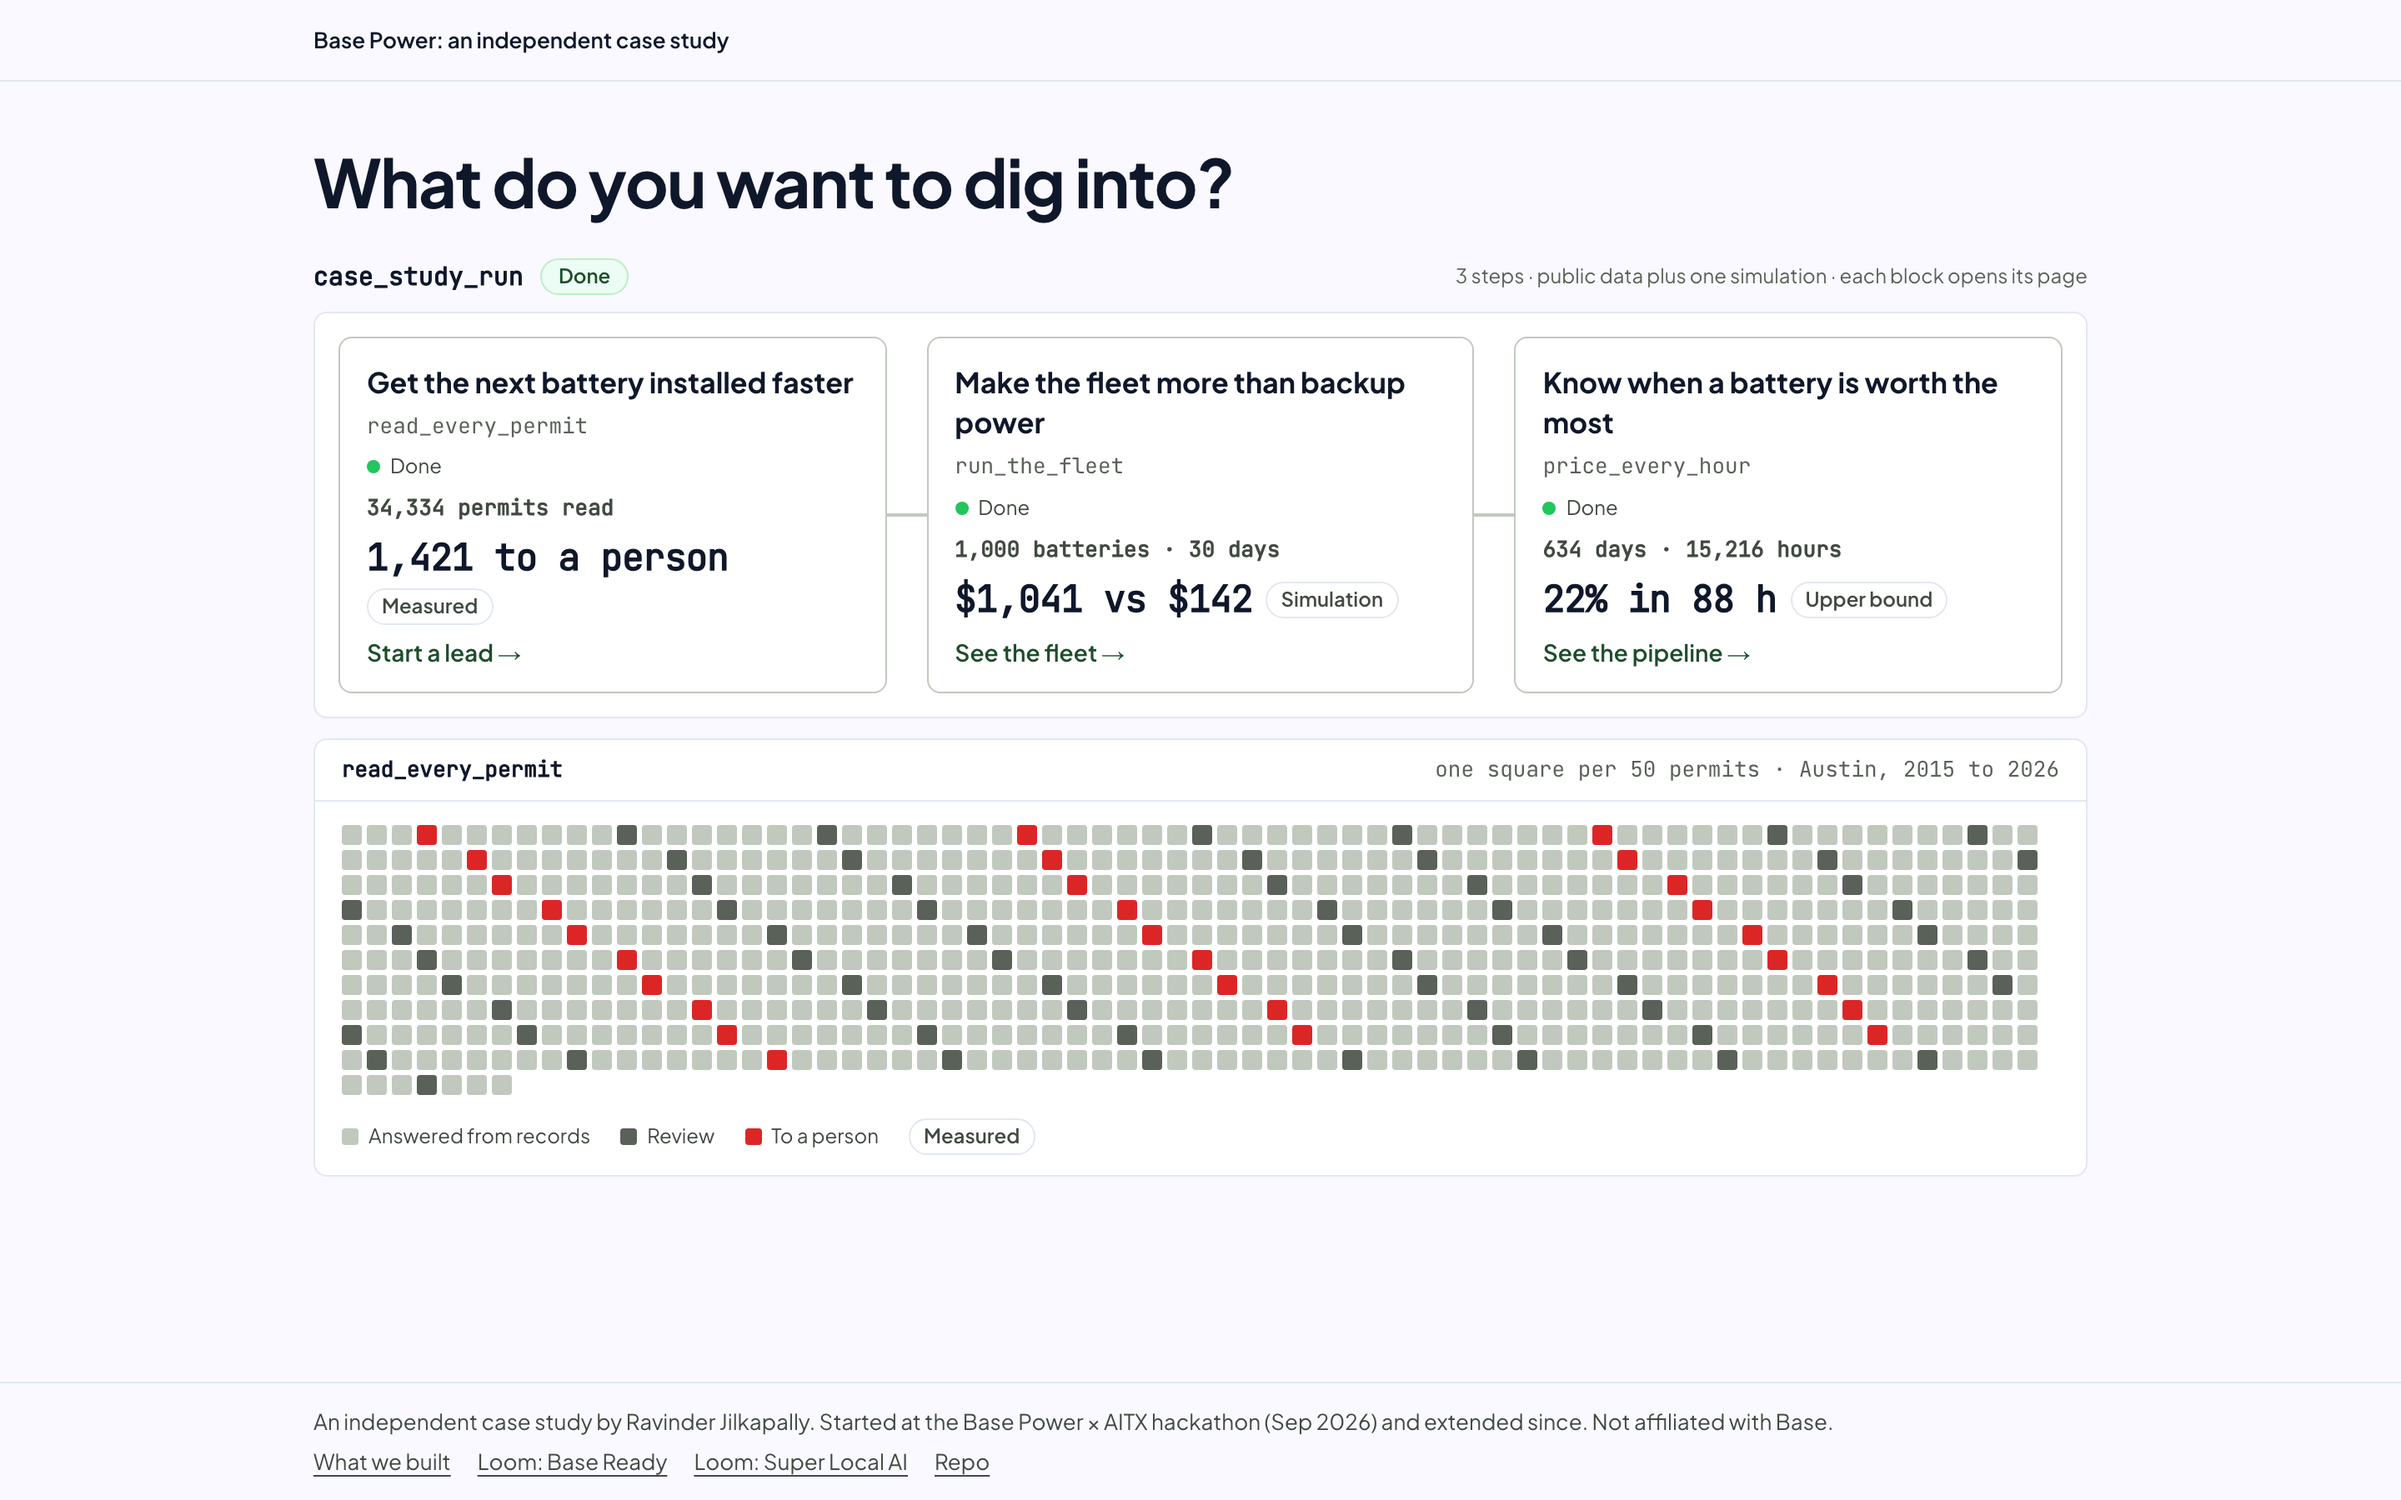
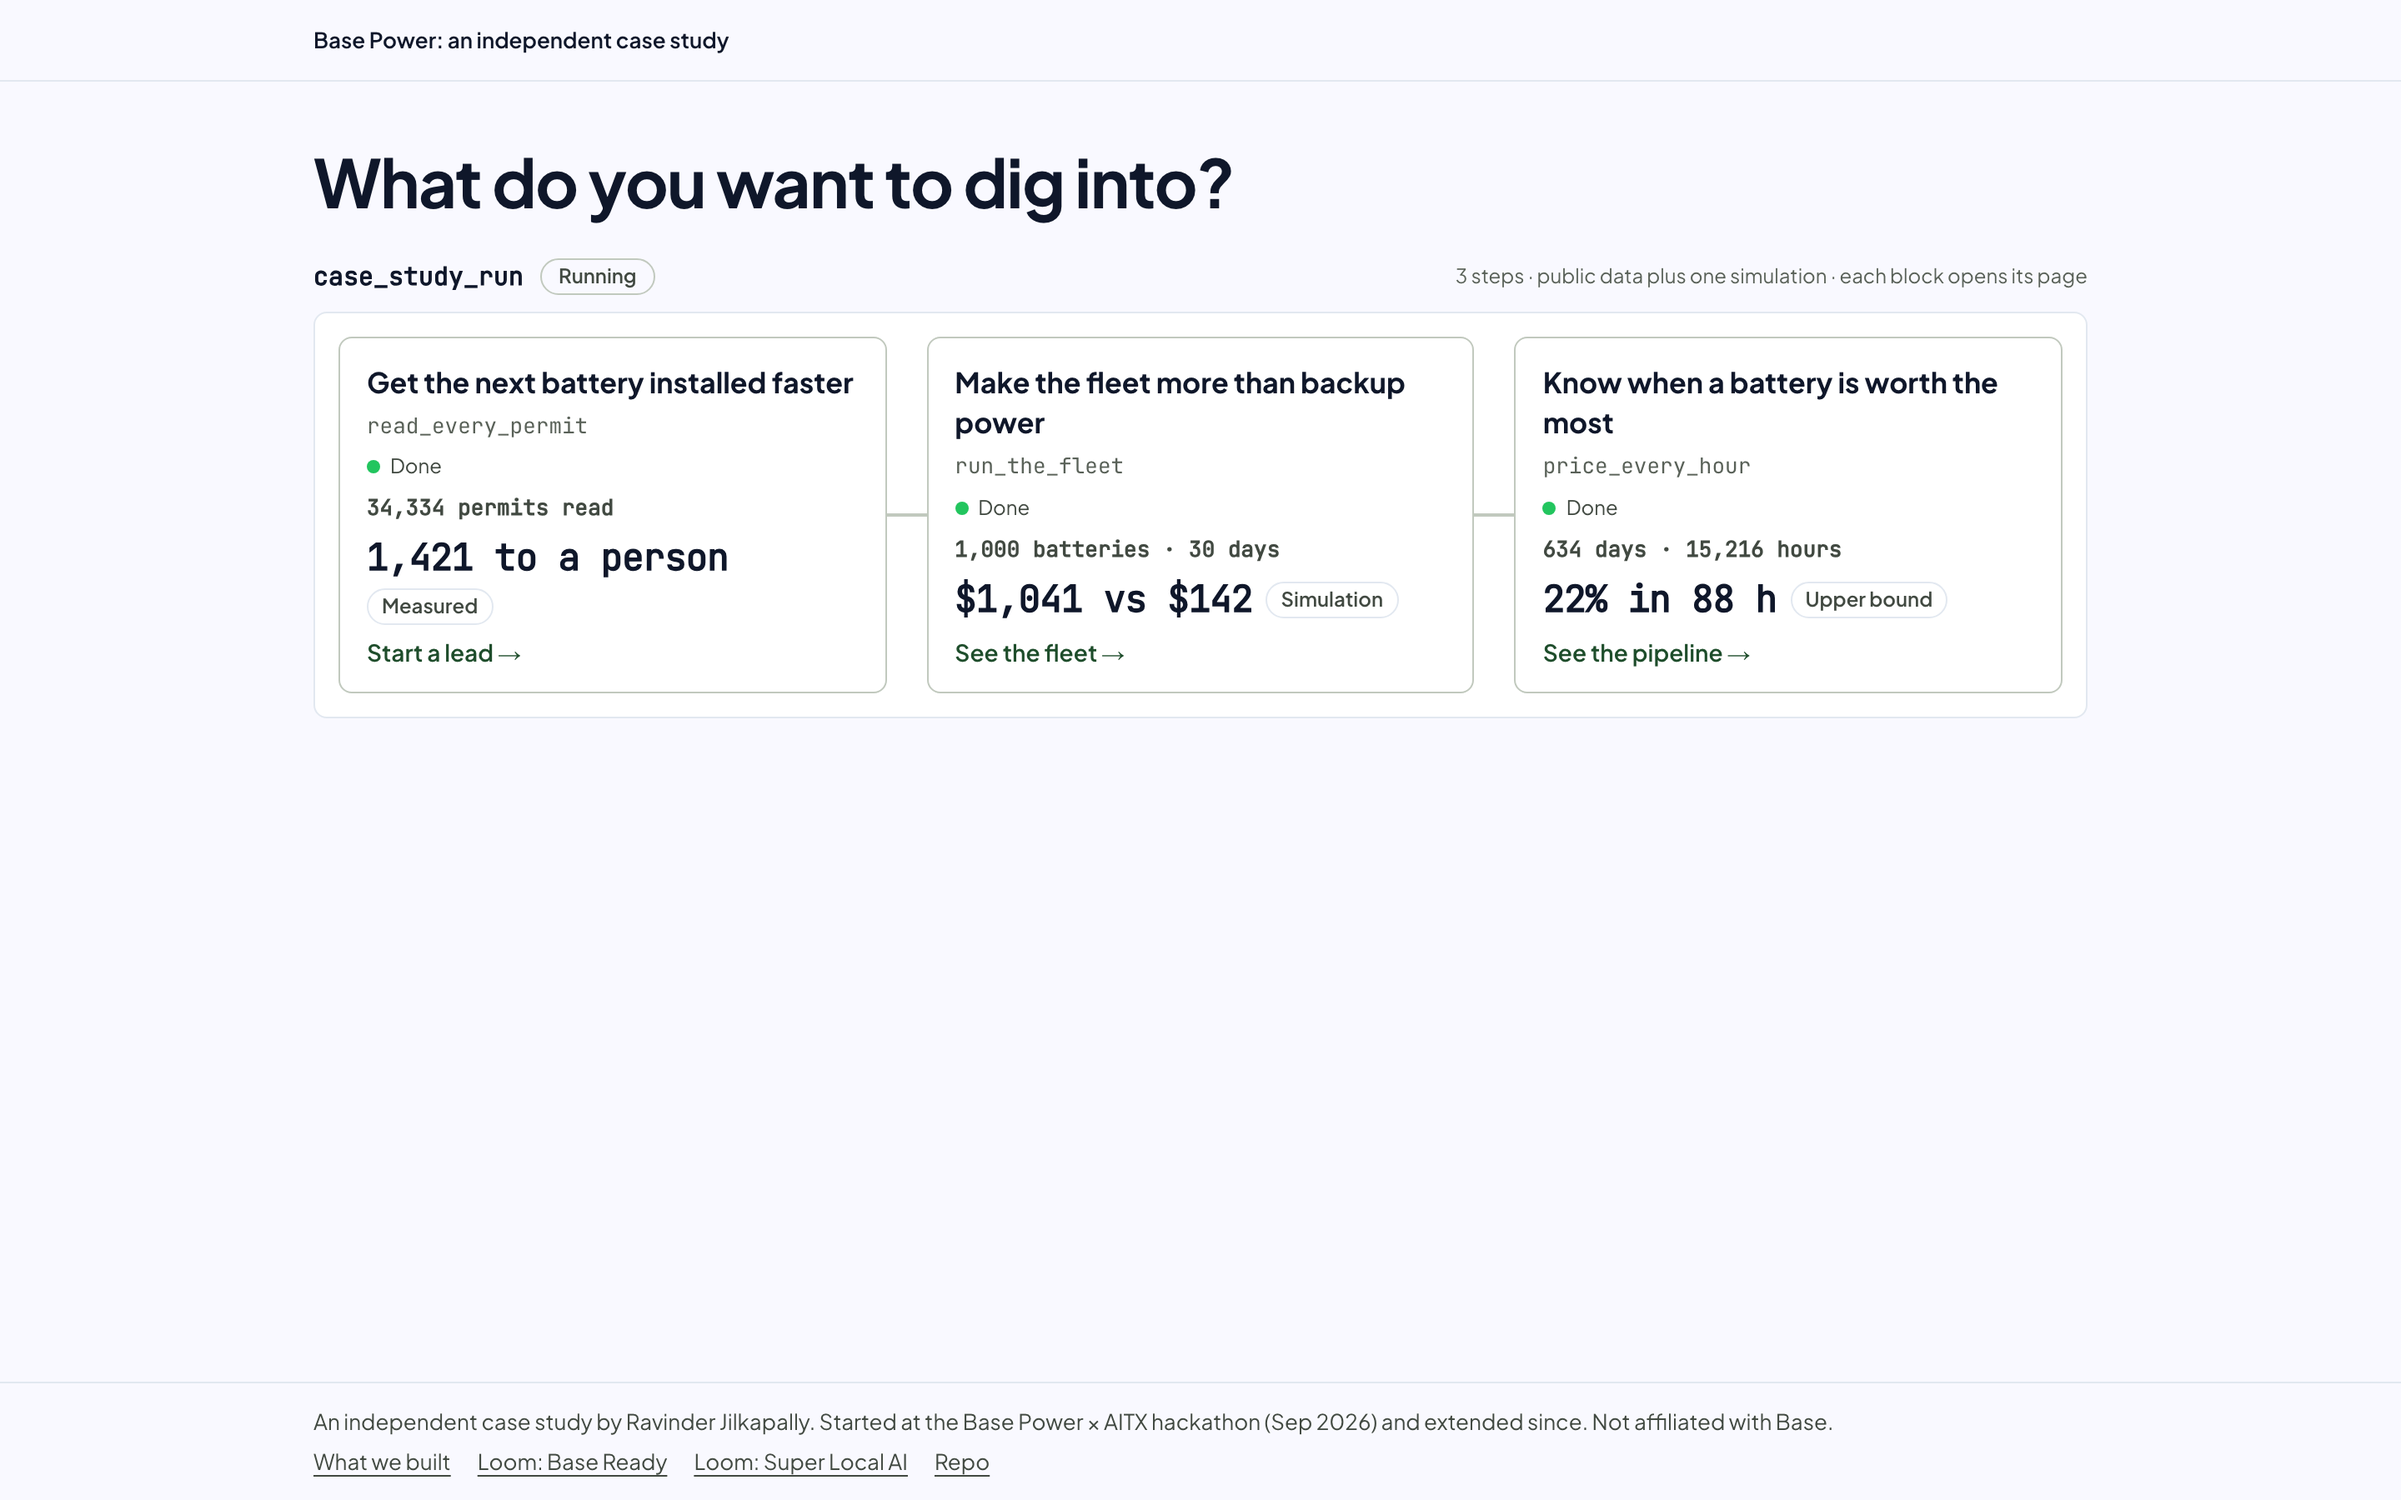
landing: remove the permit grid block; run status is Done without it (#19)
Claude-Session: https://claude.ai/code/session_01MhZ4defSvUL2RRn7pbkeyv

diff --git a/web/start.html b/web/start.html
@@ -62,7 +62,7 @@
 <main>
 <div class="wrap">
 <h1 id="question">What do you want to dig into?</h1>
-<div class="runhead"><p class="rh">case_study_run <span class="state" id="run-state">Running</span></p><span class="meta">3 steps · public data plus one simulation · each block opens its page</span></div>
+<div class="runhead"><p class="rh">case_study_run <span class="state done" id="run-state">Done</span></p><span class="meta">3 steps · public data plus one simulation · each block opens its page</span></div>
 <ol class="strip" aria-labelledby="question">
 <li><a class="blk choice" id="choose-install" href="/web/onboarding.html?track=home&amp;persona=lead"><b>Get the next battery installed faster</b><span class="op">read_every_permit</span><span class="st"><i></i>Done</span><span class="cnt">34,334 permits read</span><span class="v">1,421 to a person <span class="tag">Measured</span></span><i class="go">Start a lead &#8594;</i></a></li>
 <li class="wire" aria-hidden="true"></li>
@@ -70,11 +70,6 @@
 <li class="wire" aria-hidden="true"></li>
 <li><a class="blk choice" id="choose-ercot" href="/web/grid.html?track=home&amp;persona=operations"><b>Know when a battery is worth the most</b><span class="op">price_every_hour</span><span class="st"><i></i>Done</span><span class="cnt">634 days · 15,216 hours</span><span class="v">22% in 88 h <span class="tag">Upper bound</span></span><i class="go">See the pipeline &#8594;</i></a></li>
 </ol>
-<section class="gridp" aria-label="Permit grid">
-<div class="gh"><b>read_every_permit</b><span>one square per 50 permits · Austin, 2015 to 2026</span></div>
-<div id="sq" role="img" aria-label="Austin energy permits, one square per 50."></div>
-<div class="legend"><span><i style="background:var(--sq-auto)"></i>Answered from records</span><span><i style="background:var(--sq-review)"></i>Review</span><span><i style="background:var(--sq-person)"></i>To a person</span><span class="tag">Measured</span></div>
-</section>
 </div>
 </main>
 <footer>

diff --git a/web/start-opt.js b/web/start-opt.js
@@ -50,17 +50,4 @@
   }).catch(() => {});
 
   // B: the run screen. One square per 50 permits; only "to a person" gets a status colour.
-  if (V === 'b') get('/web/data/judgments.json').then(J => {
-    const p = J.counts.permit, PER = 50, N = Math.ceil((p.auto + p.review + p.human) / PER);
-    const red = Math.round(p.human / PER), amber = Math.round(p.review / PER), routed = red + amber;
-    const kinds = Array(N).fill('a');
-    for (let i = 0, r = 0; i < routed; i++) kinds[Math.floor((i + 0.5) * N / routed)] = (i % 3 === 0 && r < red) ? (r++, 'p') : 'v';
-    const box = $('sq');
-    box.innerHTML = '<i></i>'.repeat(N);
-    box.setAttribute('aria-label', `${N} squares, one per ${PER} permits: ${p.human.toLocaleString('en-US')} of ${(p.auto + p.review + p.human).toLocaleString('en-US')} Austin energy permits go to a person.`);
-    const col = {a: 'var(--sq-auto)', v: 'var(--sq-review)', p: 'var(--sq-person)'};
-    fillIn([...box.children], kinds.map(k => col[k]), 2400);
-    const st = $('run-state');
-    if (st) setTimeout(() => { st.textContent = 'Done'; st.className = 'state done'; }, reduce ? 0 : 2400);
-  }).catch(() => {});
 })();
